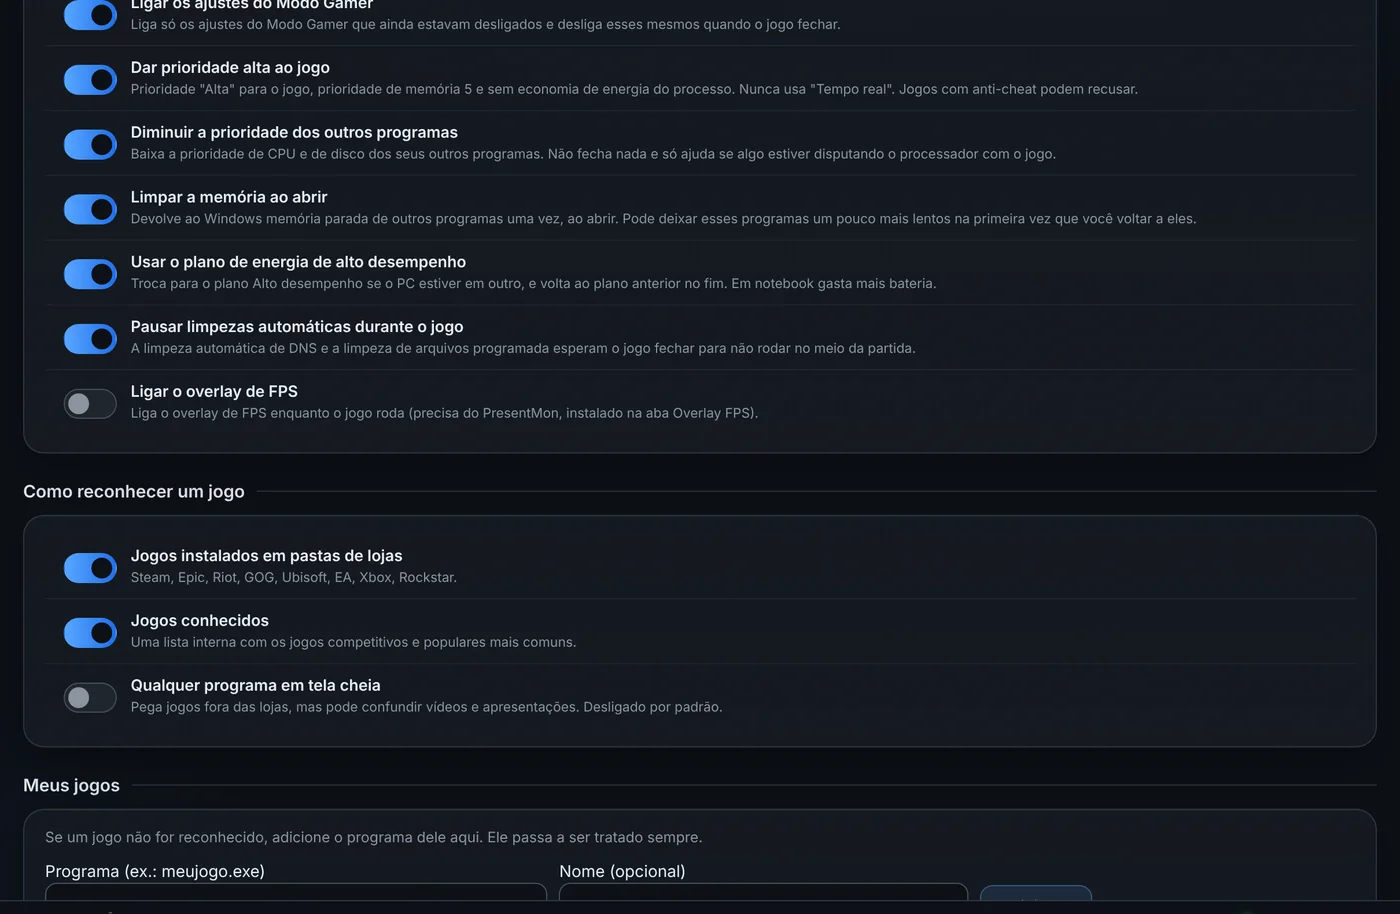
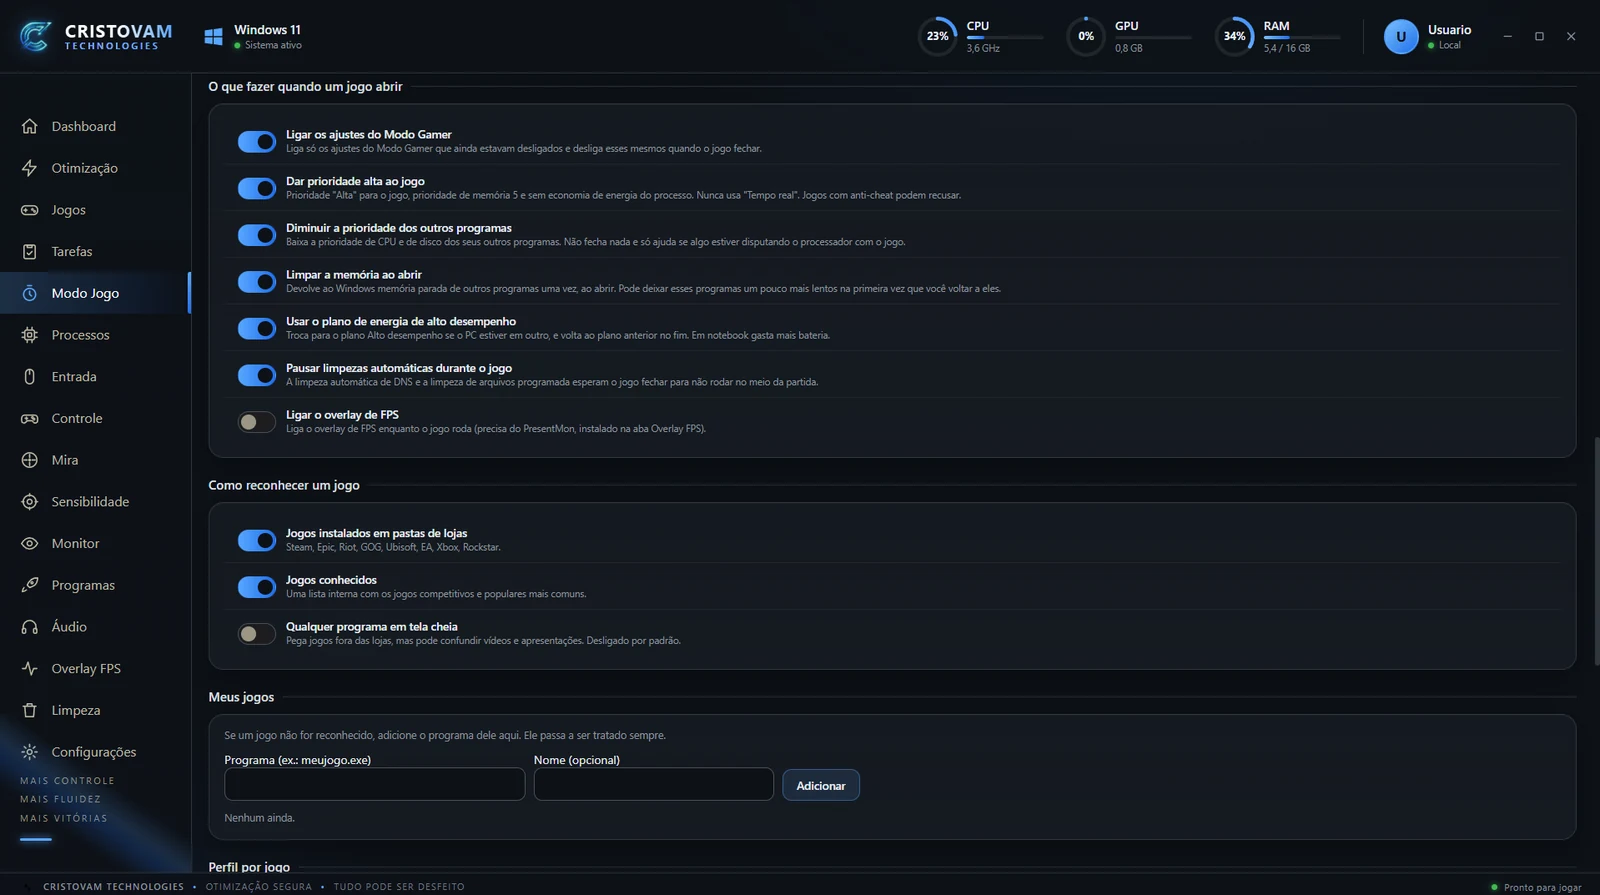
Site: prints reais de Otimização, Jogos, Modo Jogo e Limpeza no passeio pelas telas
Claude-Session: https://claude.ai/code/session_01A2WHJBw53TS6qfaTC128UT

diff --git a/docs/index.html b/docs/index.html
@@ -103,7 +103,10 @@ section{padding:72px 0;border-top:1px solid var(--line-soft)}
 .stop ul{margin:14px 0 0;padding-left:1.1em;color:var(--muted)}
 .stop li{margin-top:6px}
 .stop .shot{position:sticky;top:20px}
-@media (max-width:860px){.stop{grid-template-columns:1fr;gap:22px;padding:36px 0}.stop .shot{position:static}}
+.shots{display:grid;gap:16px}
+.shots .shot{position:static}
+.stop.multi .text{position:sticky;top:20px}
+@media (max-width:860px){.stop{grid-template-columns:1fr;gap:22px;padding:36px 0}.stop .shot,.stop.multi .text{position:static}}
 
 /* regras */
 .rules{display:grid;gap:0;margin-top:28px;max-width:760px}
@@ -206,18 +209,23 @@ footer a:hover{color:var(--text)}
         </div>
         <div class="shot"><img src="img/dashboard.webp" width="1600" height="1007" loading="lazy" alt="Dashboard do app, com o Modo Gamer ligado, os três cartões de status, as ações rápidas e a atividade recente"></div>
       </article>
-      <article class="stop">
+      <article class="stop multi">
         <div class="text">
           <h3>Otimização</h3>
           <p>A lista de ajustes do Windows, agrupados por assunto. Cada ajuste é um card com uma chave, o risco (baixo, médio ou alto) e um aviso quando precisa de administrador ou de reiniciar o PC.</p>
           <p>Antes do primeiro ajuste o app cria um ponto de restauração do Windows. Cada ajuste guarda o valor original e volta exatamente a ele, e há um botão para desfazer todos de uma vez.</p>
           <ul>
+            <li>No topo, atalhos para o painel da NVIDIA e para o Isolamento de núcleo do Windows, com a situação atual dele</li>
+            <li>Perfis: salve os ajustes ativos e aplique de novo quando quiser</li>
             <li>Dois ajustes mexem em segurança do Windows e ficam num grupo à parte, com confirmação (veja mais abaixo)</li>
           </ul>
         </div>
-        <div class="shot"><img src="img/otimizacao-ajustes.webp" width="1400" height="692" loading="lazy" alt="Tela Otimização, com cards de ajustes, chaves, etiquetas de risco e avisos"></div>
+        <div class="shots">
+          <div class="shot"><img src="img/otimizacao-ajustes.webp" width="1600" height="900" loading="lazy" alt="Tela Otimização, com atalhos do driver da GPU e do Isolamento de núcleo, perfis e os primeiros ajustes de desempenho"></div>
+        <div class="shot"><img src="img/otimizacao-riscos.webp" width="1600" height="961" loading="lazy" alt="Mais ajustes da tela Otimização, cada um com etiqueta de risco e avisos"></div>
+        </div>
       </article>
-      <article class="stop solo">
+      <article class="stop multi">
         <div class="text">
           <h3>Jogos</h3>
           <p>Ferramentas para investigar input lag e conhecer o seu equipamento.</p>
@@ -228,6 +236,10 @@ footer a:hover{color:var(--text)}
             <li>Dispositivos detectados (mouse, teclado, fone e microfone), com fabricante e software oficial</li>
             <li>Sensores em tempo real</li>
           </ul>
+        </div>
+        <div class="shots">
+          <div class="shot"><img src="img/jogos.webp" width="1600" height="900" loading="lazy" alt="Tela Jogos, com o medidor de polling rate, o timer do Windows e os ajustes de jogos e input lag"></div>
+        <div class="shot"><img src="img/jogos-dispositivos.webp" width="1600" height="935" loading="lazy" alt="Dispositivos detectados (mouse, teclado, fone e microfone) e sensores em tempo real"></div>
         </div>
       </article>
       <article class="stop">
@@ -241,7 +253,7 @@ footer a:hover{color:var(--text)}
         </div>
         <div class="shot"><img src="img/limpeza-programada.webp" width="1600" height="529" loading="lazy" alt="Parte da tela Tarefas: processos em segundo plano e limpeza de arquivos programada"></div>
       </article>
-      <article class="stop">
+      <article class="stop multi">
         <div class="text">
           <h3>Modo Jogo</h3>
           <p>Abriu o jogo, o app prepara o PC. Fechou o jogo, ele desfaz tudo. Nada é fechado nem apagado, e a prioridade só é baixada, nunca subida, para os outros programas.</p>
@@ -254,7 +266,10 @@ footer a:hover{color:var(--text)}
             <li>Se o app for fechado à força no meio do jogo, na próxima abertura ele devolve o plano de energia e os ajustes</li>
           </ul>
         </div>
-        <div class="shot"><img src="img/modo-jogo-acoes.webp" width="1400" height="914" loading="lazy" alt="Tela Modo Jogo com as ações que o app aplica quando um jogo abre"></div>
+        <div class="shots">
+          <div class="shot"><img src="img/modo-jogo-acoes.webp" width="1600" height="895" loading="lazy" alt="Tela Modo Jogo, com as ações que o app aplica quando um jogo abre e as formas de reconhecer um jogo"></div>
+        <div class="shot"><img src="img/modo-jogo-excecoes.webp" width="1600" height="901" loading="lazy" alt="Perfil por jogo, listas de exceção e a opção de tratar um programa como jogo agora"></div>
+        </div>
       </article>
       <article class="stop solo">
         <div class="text">
@@ -324,12 +339,13 @@ footer a:hover{color:var(--text)}
           <p>Os números vêm do PresentMon, ferramenta aberta da Intel que só observa o que o Windows registra. Você escolhe posição, tamanho e opacidade, e o overlay aparece sozinho quando um jogo abre e some quando fecha. Funciona em jogos em janela ou janela sem bordas, e em tela cheia exclusiva o Windows pode escondê-lo.</p>
         </div>
       </article>
-      <article class="stop solo">
+      <article class="stop">
         <div class="text">
           <h3>Limpeza</h3>
-          <p>Lista o que dá para limpar (arquivos temporários, caches e outros) com o tamanho de cada item antes de apagar. Você marca o que quer e limpa. Arquivos em uso são ignorados.</p>
-          <p>Esta é a única parte que não tem desfazer: o app só mexe nas pastas listadas e nunca em documentos, fotos, senhas ou histórico.</p>
+          <p>Lista o que dá para limpar, com o tamanho de cada item antes de apagar: arquivos temporários do usuário e do Windows, relatórios de erro, miniaturas, cache de shaders, cache dos navegadores e a Lixeira. Você marca o que quer, vê o total selecionado e limpa. Arquivos em uso são ignorados.</p>
+          <p>Itens com efeito colateral trazem um aviso na própria linha, como o cache de shaders (o jogo recompila no começo) e a Lixeira (o que está nela se perde de vez). Esta é a única parte que não tem desfazer: o app só mexe nas pastas listadas e nunca em documentos, fotos, senhas ou histórico.</p>
         </div>
+        <div class="shot"><img src="img/limpeza.webp" width="1600" height="899" loading="lazy" alt="Tela Limpeza, com cada item e o tamanho que ocupa antes de apagar"></div>
       </article>
       <article class="stop solo">
         <div class="text">
@@ -338,7 +354,7 @@ footer a:hover{color:var(--text)}
         </div>
       </article>
     </div>
-    <p class="caption">Os prints do Dashboard, Entrada, Controle, Mira, Sensibilidade e Tarefas vêm de um PC com Windows. Os de Otimização, Modo Jogo e Monitor vêm do ambiente de desenvolvimento.</p>
+    <p class="caption">Os prints vêm de um PC com Windows, exceto o do Monitor e o do grupo Segurança, que vêm do ambiente de desenvolvimento.</p>
 
     <div class="feature" id="seguranca">
       <div class="text">
